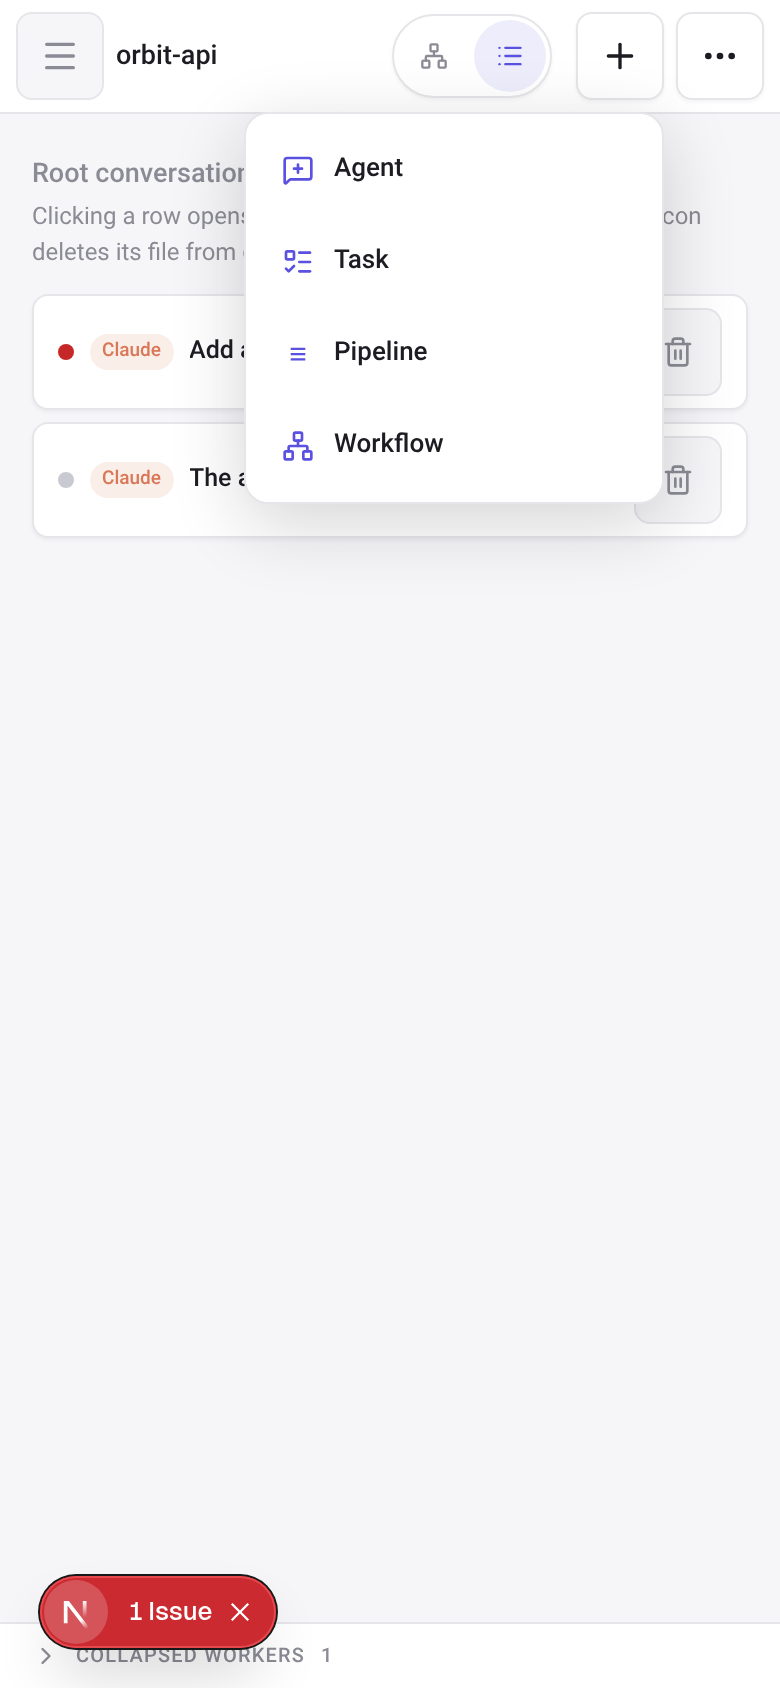
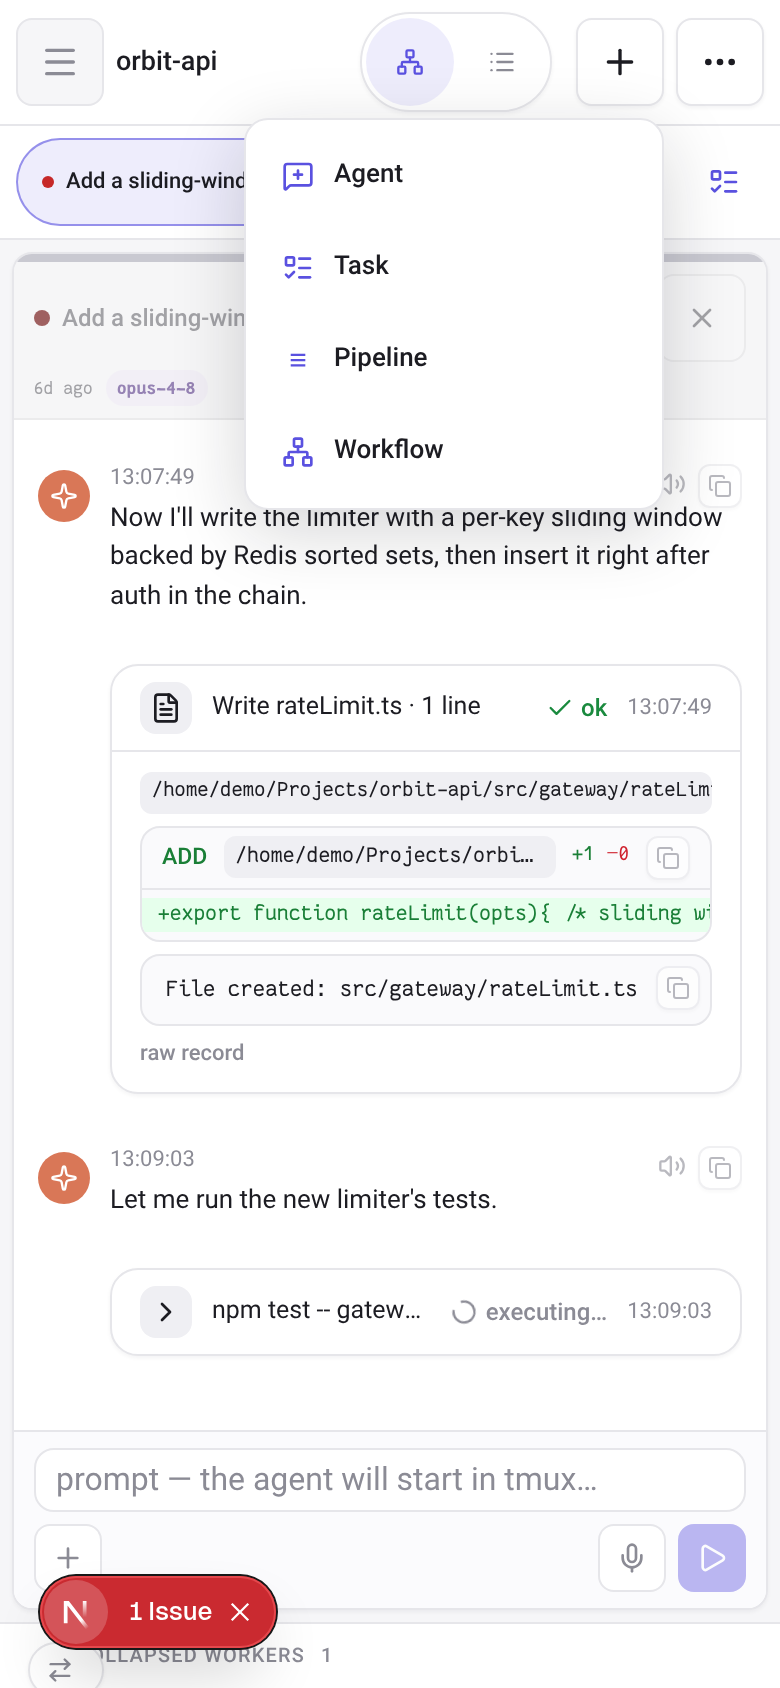
fix: address review round 1 — 44px targets everywhere + deploy toast reserves space (#145)
- Toolbar (finding 1): the scheme/list header toggle is now 44×44 per button,
  and the ⋯ menu's sound / archive / delete controls are 44px (SoundToggle,
  ArchiveProjectButton, DeleteProjectButton, and the delete confirm buttons all
  gain a mobile size; desktop sizing is unchanged).
- Runtime sheet (finding 2): the bottom-sheet close button is 44×44.
- Full map (finding 3): the map overlay's close button is 44×44 and its header
  grew to hold it.
- Deploy toast (finding 4): the pill now publishes `--llv-deploy-inset` on the
  phone while it is live, and the board reserves that space below its docked
  worker / quiet-conversation sections — so the toast sits in its own strip and
  never overlaps those rows, not merely lets taps through. Collapses to 0 when
  no deploy is showing; desktop is unaffected.

Refresh the mobile after-screenshots (44px chips + header controls).

diff --git a/src/components/ProjectTrash.tsx b/src/components/ProjectTrash.tsx
@@ -3,6 +3,7 @@
 import { useEffect, useState } from "react";
 
 import { Archive, GitBranch, Trash2 } from "@/components/icons";
+import { useIsMobile } from "@/hooks/useIsMobile";
 import { useLocale } from "@/lib/i18n";
 import type { FileEntry } from "@/lib/types";
 
@@ -128,12 +129,13 @@ export function ArchiveProjectButton({
   compact?: boolean;
 }) {
   const { t } = useLocale();
+  const isMobile = useIsMobile();
   if ((!files.length && !allowEmpty) || files.some((file) => file.proc === "running" || file.activity === "live")) return null;
   return (
     <button
       type="button"
-      className={`inline-flex shrink-0 items-center gap-1 rounded-full border border-line bg-bg text-[11px] font-semibold text-dim hover:border-accent/40 hover:text-ink focus-visible:outline-none focus-visible:ring-2 focus-visible:ring-accent/40 ${
-        compact ? "p-1" : "px-2 py-0.5"
+      className={`inline-flex shrink-0 items-center gap-1.5 rounded-full border border-line bg-bg font-semibold text-dim hover:border-accent/40 hover:text-ink focus-visible:outline-none focus-visible:ring-2 focus-visible:ring-accent/40 ${
+        isMobile ? "min-h-11 px-3 text-[13px]" : compact ? "p-1 text-[11px]" : "px-2 py-0.5 text-[11px]"
       }`}
       aria-label={t("trash.toArchive")}
       title={t("trash.toArchive")}
@@ -142,7 +144,7 @@ export function ArchiveProjectButton({
         gotoOverview();
       }}
     >
-      <Archive className="h-3 w-3" aria-hidden /> {compact ? null : t("trash.toArchive")}
+      <Archive className={isMobile ? "h-4 w-4" : "h-3 w-3"} aria-hidden /> {compact && !isMobile ? null : t("trash.toArchive")}
     </button>
   );
 }
@@ -154,6 +156,7 @@ export function ArchiveProjectButton({
  */
 export function DeleteProjectButton({ files }: { files: FileEntry[] }) {
   const { t } = useLocale();
+  const isMobile = useIsMobile();
   const [confirming, setConfirming] = useState(false);
   const [busy, setBusy] = useState(false);
   const [error, setError] = useState("");
@@ -196,7 +199,9 @@ export function DeleteProjectButton({ files }: { files: FileEntry[] }) {
         </span>
         <button
           type="button"
-          className="rounded-lg bg-err px-2 py-0.5 font-bold text-white disabled:opacity-60 focus-visible:outline-none focus-visible:ring-2 focus-visible:ring-err/50"
+          className={`inline-flex items-center rounded-lg bg-err font-bold text-white disabled:opacity-60 focus-visible:outline-none focus-visible:ring-2 focus-visible:ring-err/50 ${
+            isMobile ? "min-h-11 px-3" : "px-2 py-0.5"
+          }`}
           disabled={busy}
           onClick={removeAll}
         >
@@ -204,7 +209,9 @@ export function DeleteProjectButton({ files }: { files: FileEntry[] }) {
         </button>
         <button
           type="button"
-          className="rounded-lg border border-line bg-panel px-2 py-0.5 font-semibold text-dim focus-visible:outline-none focus-visible:ring-2 focus-visible:ring-accent/40"
+          className={`inline-flex items-center rounded-lg border border-line bg-panel font-semibold text-dim focus-visible:outline-none focus-visible:ring-2 focus-visible:ring-accent/40 ${
+            isMobile ? "min-h-11 px-3" : "px-2 py-0.5"
+          }`}
           onClick={() => setConfirming(false)}
         >
           {t("common.cancel")}
@@ -216,12 +223,14 @@ export function DeleteProjectButton({ files }: { files: FileEntry[] }) {
     <span className="inline-flex shrink-0 items-center gap-1.5">
       <button
         type="button"
-        className="inline-flex items-center rounded-full border border-line bg-bg p-1 text-dim hover:border-err/40 hover:text-err focus-visible:outline-none focus-visible:ring-2 focus-visible:ring-accent/40"
+        className={`inline-flex items-center justify-center rounded-full border border-line bg-bg text-dim hover:border-err/40 hover:text-err focus-visible:outline-none focus-visible:ring-2 focus-visible:ring-accent/40 ${
+          isMobile ? "h-11 w-11" : "p-1"
+        }`}
         aria-label={t("trash.deleteProject")}
         title={t("trash.deleteProject")}
         onClick={() => setConfirming(true)}
       >
-        <Trash2 className="h-3 w-3" aria-hidden />
+        <Trash2 className={isMobile ? "h-4 w-4" : "h-3 w-3"} aria-hidden />
       </button>
       {error ? <span className="max-w-[180px] truncate text-[10.5px] font-semibold text-err">{error}</span> : null}
     </span>

diff --git a/src/components/runtime/DeploymentStatusPill.tsx b/src/components/runtime/DeploymentStatusPill.tsx
@@ -2,11 +2,13 @@
 
 import { useEffect, useState } from "react";
 
+import { useIsMobile } from "@/hooks/useIsMobile";
 import { useRuntime } from "@/hooks/useRuntime";
 import type { RuntimeSnapshot, ViewerDeploymentStatus } from "@/lib/runtime/contracts";
 
 export function DeploymentStatusPill() {
   const { enabled, store } = useRuntime();
+  const isMobile = useIsMobile();
   const [snapshotDeployments, setSnapshotDeployments] = useState<ViewerDeploymentStatus[]>([]);
   useEffect(() => {
     if (enabled) return;
@@ -25,6 +27,19 @@ export function DeploymentStatusPill() {
   }, [enabled]);
   const deployments = enabled ? Object.values(store.deployments) : snapshotDeployments;
   const deployment = [...deployments].sort((left, right) => right.updatedAt.localeCompare(left.updatedAt))[0];
+  /* Reserved space, phone only (finding 4): while the pill is live it publishes
+     a bottom inset that the board's docked sections (collapsed workers / quiet
+     conversations) pad against, so the toast sits in its own strip below them and
+     never overlaps their rows — not merely tap-through. Cleared when it hides. */
+  const hasReservation = isMobile && Boolean(deployment);
+  useEffect(() => {
+    if (!hasReservation) return;
+    const root = document.documentElement;
+    root.style.setProperty("--llv-deploy-inset", "calc(2.75rem + env(safe-area-inset-bottom))");
+    return () => {
+      root.style.removeProperty("--llv-deploy-inset");
+    };
+  }, [hasReservation]);
   if (!deployment) return null;
   const label = deployment.phase.replaceAll("-", " ");
   const tone = deployment.phase === "succeeded"
@@ -33,10 +48,10 @@ export function DeploymentStatusPill() {
       ? "border-[#d06b5d]/45 text-[#a33d31]"
       : "border-accent/45 text-accent";
   return (
-    /* Purely informational — never a hit-target. `pointer-events-none` lets taps
-       fall through to whatever it visually overlaps (on the phone that is the
-       collapsed-worker / quiet-conversation section toggles docked at the bottom
-       of the board), and the safe-area inset lifts it clear of the home bar. */
+    /* Purely informational — never a hit-target. On the phone the board reserves
+       `--llv-deploy-inset` below its docked sections so this strip has its own
+       room; `pointer-events-none` is a belt-and-braces guard, and the safe-area
+       inset lifts it clear of the home bar. */
     <div
       className={`pointer-events-none fixed bottom-[max(0.75rem,env(safe-area-inset-bottom))] left-1/2 z-40 max-w-[calc(100vw-1.5rem)] -translate-x-1/2 truncate rounded-full border bg-panel/95 px-3 py-1 text-[11px] font-semibold shadow-card backdrop-blur ${tone}`}
       role="status"

diff --git a/src/components/ProjectDashboard.tsx b/src/components/ProjectDashboard.tsx
@@ -152,7 +152,7 @@ function ProjectViewTabs({
           onClick={() => onChange(mode)}
           aria-label={t(mode === "scheme" ? "dash.viewScheme" : "dash.viewList")}
           className={`inline-flex items-center justify-center gap-1 rounded-full text-[11px] font-bold focus-visible:outline-none focus-visible:ring-2 focus-visible:ring-accent/40 ${
-            header ? "h-9 w-9" : "px-2 py-1"
+            header ? "h-11 w-11" : "px-2 py-1"
           } ${value === mode ? "bg-accent/10 text-accent" : "text-dim hover:text-ink"}`}
         >
           {mode === "scheme" ? <Network className={header ? "h-3.5 w-3.5" : "h-3 w-3"} aria-hidden /> : <List className={header ? "h-3.5 w-3.5" : "h-3 w-3"} aria-hidden />}
@@ -850,10 +850,10 @@ export function ProjectDashboard({
                     {archived ? (
                       <button
                         type="button"
-                        className="inline-flex shrink-0 items-center gap-1 rounded-full border border-line bg-bg px-2 py-1 text-[12px] font-semibold text-dim hover:border-accent/40 hover:text-ink focus-visible:outline-none focus-visible:ring-2 focus-visible:ring-accent/40"
+                        className="inline-flex min-h-11 shrink-0 items-center gap-1.5 rounded-full border border-line bg-bg px-3 text-[13px] font-semibold text-dim hover:border-accent/40 hover:text-ink focus-visible:outline-none focus-visible:ring-2 focus-visible:ring-accent/40"
                         onClick={() => onUnarchive(project)}
                       >
-                        <ArchiveRestore className="h-3.5 w-3.5" aria-hidden /> {t("dash.unarchive")}
+                        <ArchiveRestore className="h-4 w-4" aria-hidden /> {t("dash.unarchive")}
                       </button>
                     ) : (
                       <ArchiveProjectButton files={projectFiles} allowEmpty={catalogKnown} onArchive={() => onArchive(project)} />
@@ -1079,6 +1079,12 @@ export function ProjectDashboard({
       ) : null}
 
       <TaskToastHost />
+
+      {/* Phone-only reservation (finding 4): while a deploy pill is live it
+          publishes `--llv-deploy-inset`; this spacer lifts the docked worker /
+          quiet-conversation sections above it so the toast never covers their
+          rows. Collapses to 0 when no deploy is showing. */}
+      {isMobile ? <div aria-hidden className="shrink-0" style={{ height: "var(--llv-deploy-inset, 0px)" }} /> : null}
     </div>
   );
 }

diff --git a/src/components/SoundToggle.tsx b/src/components/SoundToggle.tsx
@@ -3,12 +3,14 @@
 import { Volume2, VolumeX } from "lucide-react";
 import { useEffect, useState } from "react";
 
+import { useIsMobile } from "@/hooks/useIsMobile";
 import { chime, setSoundEnabled, soundEnabled } from "@/lib/chime";
 import { useLocale } from "@/lib/i18n";
 
 /** Header switch for the finish-chimes; turning it on plays a preview note. */
 export function SoundToggle() {
   const { t } = useLocale();
+  const isMobile = useIsMobile();
   const [on, setOn] = useState(true);
   /* localStorage is client-only: read after mount to keep hydration clean. */
   // eslint-disable-next-line react-hooks/set-state-in-effect
@@ -21,13 +23,15 @@ export function SoundToggle() {
   };
   return (
     <button
-      className="ml-auto inline-flex h-[26px] w-[26px] shrink-0 items-center justify-center rounded-full border border-line bg-panel text-dim hover:text-ink focus-visible:outline-none focus-visible:ring-2 focus-visible:ring-accent/40"
+      className={`ml-auto inline-flex shrink-0 items-center justify-center rounded-full border border-line bg-panel text-dim hover:text-ink focus-visible:outline-none focus-visible:ring-2 focus-visible:ring-accent/40 ${
+        isMobile ? "h-11 w-11" : "h-[26px] w-[26px]"
+      }`}
       title={on ? t("sound.on") : t("sound.off")}
       aria-label={on ? t("sound.mute") : t("sound.unmute")}
       aria-pressed={on}
       onClick={toggle}
     >
-      {on ? <Volume2 className="h-3.5 w-3.5" aria-hidden /> : <VolumeX className="h-3.5 w-3.5" aria-hidden />}
+      {on ? <Volume2 className={isMobile ? "h-5 w-5" : "h-3.5 w-3.5"} aria-hidden /> : <VolumeX className={isMobile ? "h-5 w-5" : "h-3.5 w-3.5"} aria-hidden />}
     </button>
   );
 }

diff --git a/src/components/mobile/MobileFocusView.tsx b/src/components/mobile/MobileFocusView.tsx
@@ -375,16 +375,16 @@ export function MobileFocusView({ project, groups, manual, files, flows, pipelin
 
       {mapOpen ? (
         <div className="fixed inset-0 z-50 flex flex-col bg-bg pb-[env(safe-area-inset-bottom)]">
-          <div className="flex h-10 shrink-0 items-center gap-2 border-b border-line bg-panel px-3">
-            <span className="shrink-0 text-[13px] font-bold">{t("mobile.map")}</span>
+          <div className="flex min-h-[52px] shrink-0 items-center gap-2 border-b border-line bg-panel px-2 py-1.5">
+            <span className="shrink-0 pl-1 text-[13px] font-bold">{t("mobile.map")}</span>
             <span className="min-w-0 flex-1 truncate text-[11.5px] text-dim">{project}</span>
             <button
               type="button"
-              className="flex h-7 w-7 shrink-0 items-center justify-center rounded-[8px] border border-line bg-bg text-dim hover:text-ink focus-visible:outline-none focus-visible:ring-2 focus-visible:ring-accent/40"
+              className="flex h-11 w-11 shrink-0 items-center justify-center rounded-[8px] border border-line bg-bg text-dim hover:text-ink focus-visible:outline-none focus-visible:ring-2 focus-visible:ring-accent/40"
               aria-label={t("mobile.closeMap")}
               onClick={() => setMapOpen(false)}
             >
-              <X className="h-4 w-4" aria-hidden />
+              <X className="h-5 w-5" aria-hidden />
             </button>
           </div>
           <SchemeBoard

diff --git a/src/components/AgentRuntimeControls.tsx b/src/components/AgentRuntimeControls.tsx
@@ -153,7 +153,7 @@ export function AgentRuntimeControls({ file }: { file: FileEntry }) {
                   type="button"
                   onClick={() => setSheetOpen(false)}
                   aria-label={t("common.close")}
-                  className="flex h-9 w-9 shrink-0 items-center justify-center rounded-full border border-line bg-bg text-dim hover:text-ink focus-visible:outline-none focus-visible:ring-2 focus-visible:ring-accent/40"
+                  className="flex h-11 w-11 shrink-0 items-center justify-center rounded-full border border-line bg-bg text-dim hover:text-ink focus-visible:outline-none focus-visible:ring-2 focus-visible:ring-accent/40"
                 >
                   <X className="h-4 w-4" aria-hidden />
                 </button>